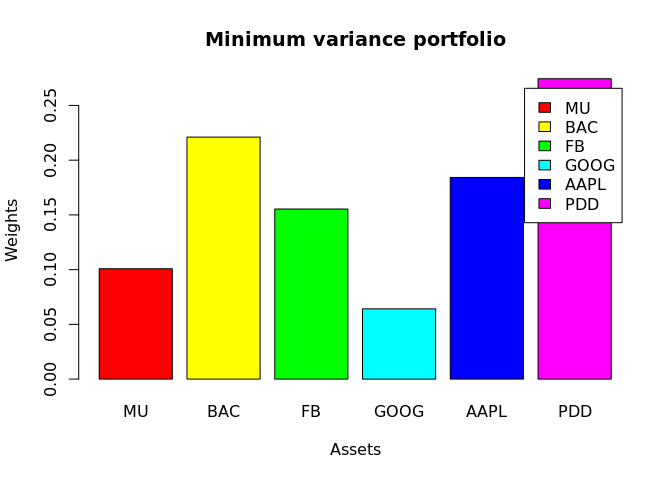
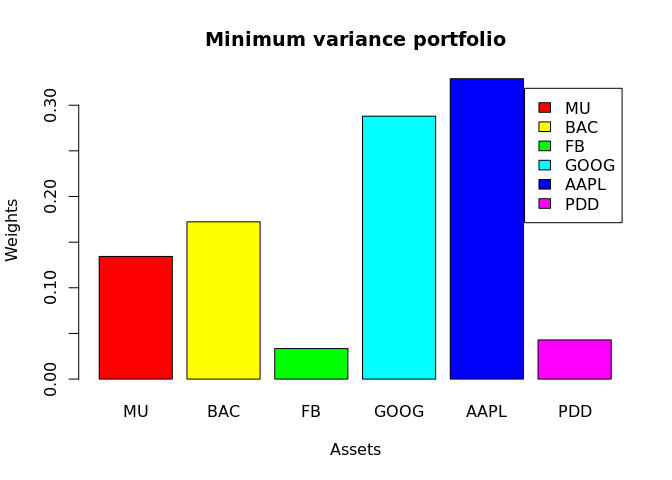
Update 2.1

diff --git a/README.md b/README.md
@@ -1,19 +1,20 @@
 
 <!-- README.md is generated from README.Rmd. Please edit that file -->
 
-# Investment-Portfolio
+# Investment Portfolio
 
 <!-- badges: start -->
 <!-- badges: end -->
 
-The goal of Investment-Portfolio is to …
+The objective of the investment portfolio is to find the most optimal
+investment portfolio with certain assets and weights as initial values,
+calculating important statistics of the same, as a complement to explain
+in detail the performance of the shares with the objective of making the
+best possible decisions to invest in the near future.
 
 ------------------------------------------------------------------------
 
 ## Stock selection and visualitazion of data
-
-What is special about using `README.Rmd` instead of just `README.md`?
-You can include R chunks like so:
 
 The following is a list of the stocks used for the analysis of the
 portfolio with the respective weights of each stock, it should be noted
@@ -141,18 +142,18 @@ iterations:
 <!-- -->
 
     #> # A tibble: 1 x 9
-    #>      MU   BAC    FB  GOOG   AAPL   PDD   Return   Risk SharpeRatio
-    #>   <dbl> <dbl> <dbl> <dbl>  <dbl> <dbl>    <dbl>  <dbl>       <dbl>
-    #> 1 0.173 0.213 0.114 0.285 0.0808 0.134 0.000743 0.0132      0.0562
+    #>      MU    BAC    FB  GOOG   AAPL   PDD   Return   Risk SharpeRatio
+    #>   <dbl>  <dbl> <dbl> <dbl>  <dbl> <dbl>    <dbl>  <dbl>       <dbl>
+    #> 1 0.274 0.0921 0.197 0.249 0.0723 0.116 0.000741 0.0132      0.0561
 
 -   Maximum Sharpe Ratio Portfolio
 
 <!-- -->
 
     #> # A tibble: 1 x 9
-    #>      MU   BAC    FB   GOOG  AAPL   PDD   Return   Risk SharpeRatio
-    #>   <dbl> <dbl> <dbl>  <dbl> <dbl> <dbl>    <dbl>  <dbl>       <dbl>
-    #> 1 0.101 0.221 0.155 0.0641 0.184 0.274 0.000836 0.0138      0.0605
+    #>      MU   BAC     FB  GOOG  AAPL    PDD   Return   Risk SharpeRatio
+    #>   <dbl> <dbl>  <dbl> <dbl> <dbl>  <dbl>    <dbl>  <dbl>       <dbl>
+    #> 1 0.134 0.172 0.0334 0.288 0.329 0.0429 0.000831 0.0137      0.0605
 
 Finally, let’s visualize in a bar chart, the minimum variance portfolio
 for each asset, as well as the maximum sharpe ratio portfolio for each
@@ -160,7 +161,7 @@ asset.
 
 ![](README_files/figure-gfm/unnamed-chunk-13-1.png)<!-- -->![](README_files/figure-gfm/unnamed-chunk-13-2.png)<!-- -->
 
-We can observe and mention some conclusions about the bar charts that
+**We can observe and mention some conclusions about the bar charts that
 for the stock “BAC” has a lot of weight in both bar charts, so we can
 conclude that, according to our investment portfolio, it is wise to give
-a lot of weight to this asset.
+a lot of weight to this asset.**
